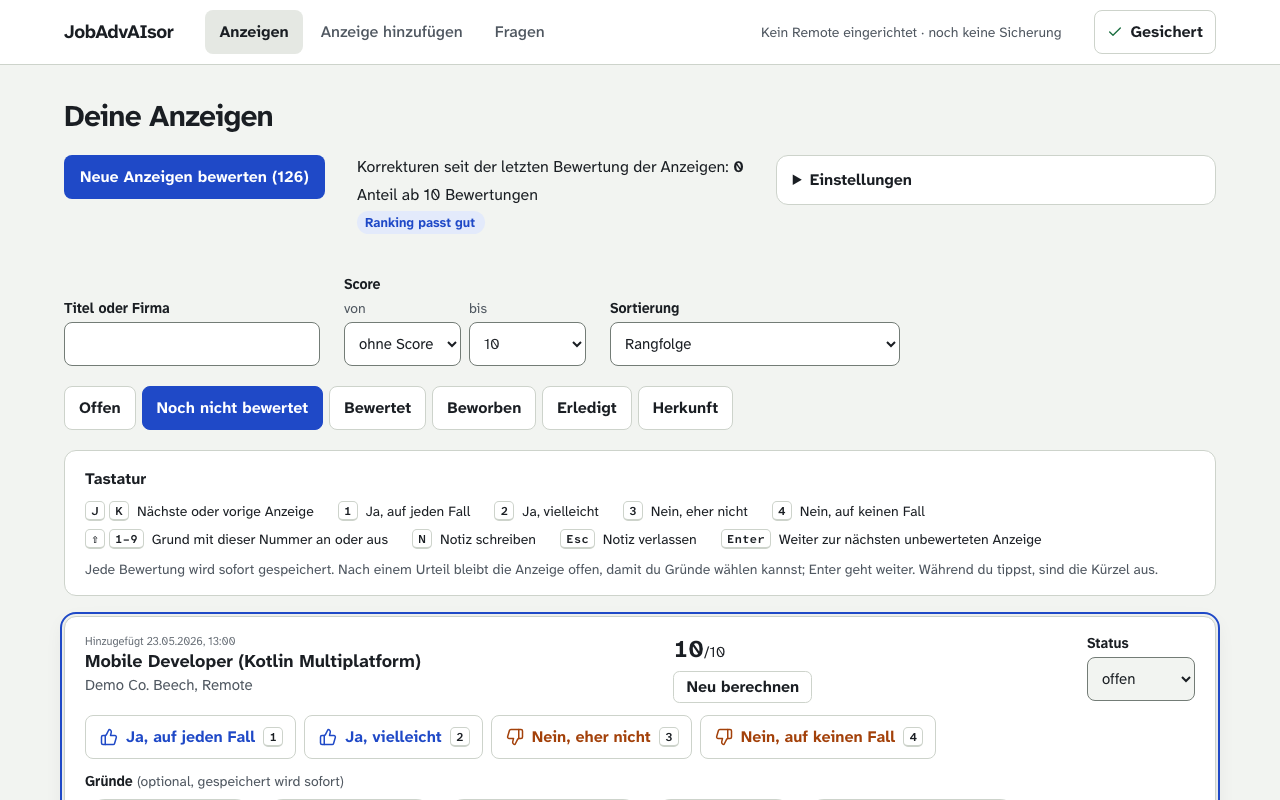
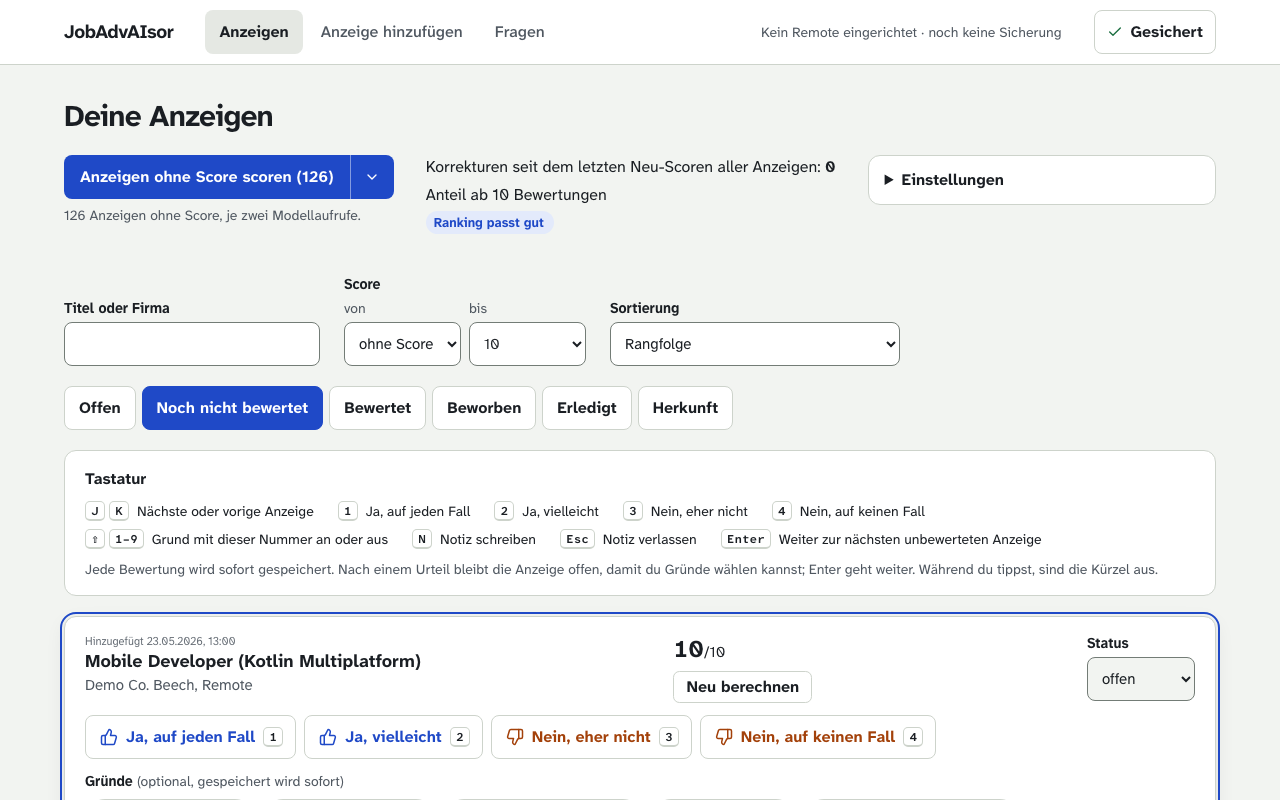
Describe the pass variants in the README, retake pool.png, update the current state (#38)
Claude-Session: https://claude.ai/code/session_01GaydmxYRS8mqc7YvyQBwYA

Changed region(s): [[0.0625, 0.1875, 0.7812, 0.2812]]

diff --git a/README.md b/README.md
@@ -79,7 +79,7 @@ In a second terminal, start the frontend and open <http://localhost:5710>:
 npm --prefix frontend run dev
 ```
 
-The "Anzeigen" pool lists every stored posting. Click "Neue Anzeigen bewerten" to run a scoring pass, which calls your model. It scores every posting that has no score yet, ones you already rated included, so your rating and the model's score sit side by side. When it finishes, the pool shows each score and ranks the postings by fit, and a posting's page shows the reasoning. To score one posting at once, press "Score berechnen" (with a score: "Neu berechnen") in its pool row or on its page; it calls the model once and replaces an earlier score. The button is disabled, with an info icon that says why, for a posting an exclusion rule matches, the content guard holds, or the guard never checked while no classifier is configured. Rate a posting in the pool or on its page at one of four levels: "Ja, auf jeden Fall" (key 1), "Ja, vielleicht" (2), "Nein, eher nicht" (3) and "Nein, auf keinen Fall" (4). Shift+1 to 9 toggle reason chips, and Enter moves to the next unrated posting. In the label file, a level is a verdict (`positive` or `negative`) plus an optional `strength` (`weak` or `strong`).
+The "Anzeigen" pool lists every stored posting. The pass button runs a scoring pass, which calls your model twice per posting. "Anzeigen ohne Score scoren" scores every posting that has no score yet, ones you already rated included, so your rating and the model's score sit side by side. "Alle Anzeigen neu scoren", in the menu beside it, rescores every posting and replaces existing scores. The button shows "Alle" by default once the correction counter reaches your threshold or rate ("neu scoren sinnvoll"), and "ohne Score" otherwise; a pick from the menu lasts until the pool reloads. The counter starts again only after a pass over all postings. When a pass finishes, the pool shows each score and ranks the postings by fit, and a posting's page shows the reasoning. To score one posting at once, press "Score berechnen" (with a score: "Neu berechnen") in its pool row or on its page; it calls the model once and replaces an earlier score. The button is disabled, with an info icon that says why, for a posting an exclusion rule matches, the content guard holds, or the guard never checked while no classifier is configured. Rate a posting in the pool or on its page at one of four levels: "Ja, auf jeden Fall" (key 1), "Ja, vielleicht" (2), "Nein, eher nicht" (3) and "Nein, auf keinen Fall" (4). Shift+1 to 9 toggle reason chips, and Enter moves to the next unrated posting. In the label file, a level is a verdict (`positive` or `negative`) plus an optional `strength` (`weak` or `strong`).
 
 ![The page of one posting on the demo persona, with its score, the reasoning and the postings it was compared with](docs/images/posting.png)
 

diff --git a/AGENTS.md b/AGENTS.md
@@ -55,8 +55,8 @@ A pull request whose branch is already checked out in a worktree cannot be check
 
 The history lives in OpenSpec, not here: `openspec/specs/` is the baseline (one folder per capability) and `openspec/changes/archive/` holds every finished change with its proposal, design and tasks. Open work is in the GitHub issues. Keep this section to a pointer plus the last two archived changes; when archiving a change, drop the oldest entry.
 
-- `pool-score-filter-sort` (#105): the pool gets a score range („von“/„bis“ selects, „ohne Score“ below 0) and a „Sortierung“ select (ranking, score, the user's rating, added date; both directions), client-side only. The pure logic is `lib/pool-order.ts` (`inRange`, `sortRows`; only a `scored` row has a score, missing values sort last, ties keep the ranking). `PoolView.tsx` takes the shown order when the pool loads or the sort, state filter or range changes, so a row rated or scored in the view keeps its place and (`touched`) stays listed until the state filter or range changes. „Filter zurücksetzen“ resets the range, not the sort. J, K and Enter follow the shown order.
 - `readme-images` (#79): `scripts/readme_images.py` rewrites the two README images, `docs/images/pool.png` (the pool filtered to „Noch nicht bewertet“ with its first posting selected) and `docs/images/posting.png` (that posting's page with score, reasoning and the „Verglichen mit“ list), in one command. It builds the frontend, serves the real app on a temporary copy of the demo persona with the score files of `fixtures/readme-scores/` laid over it, and drives it with Playwright at 1280 by 800, light mode, Europe/Berlin time, reduced motion. No model is called and no key is needed: the model parts record and raise, and the command exits 1 when one is reached, the server answers 5xx or the page reports an error. The configured data repository is never read. The README captions say the scores are sample data.
+- `38-pass-button-variants` (#38, #75): the pass button is a split button (`PassButton` in `PoolView.tsx`, a Radix dropdown menu) for „Anzeigen ohne Score scoren“ and „Alle Anzeigen neu scoren“. `next_pass` is `{default, unscored, all}`, with `default` taken from the counter hint only, and `POST /pool/passes` requires `{"variant"}`. A hand pick lasts until the pool loads or the default changes; a failed pass retries with its stored variant. Each `PoolPass` records its `variant`, and `counter` windows from the last pass whose variant is `"all"` or missing (older records). UI texts say „scoren“ for the AI's scoring and „bewerten“ only for the user's rating.
 
 The README covers setup, the demo persona, the pool workflow, the deployment and the evals. `docs/company-facts.md` and `docs/extractor-benchmark.md` hold the longer guides.
 
